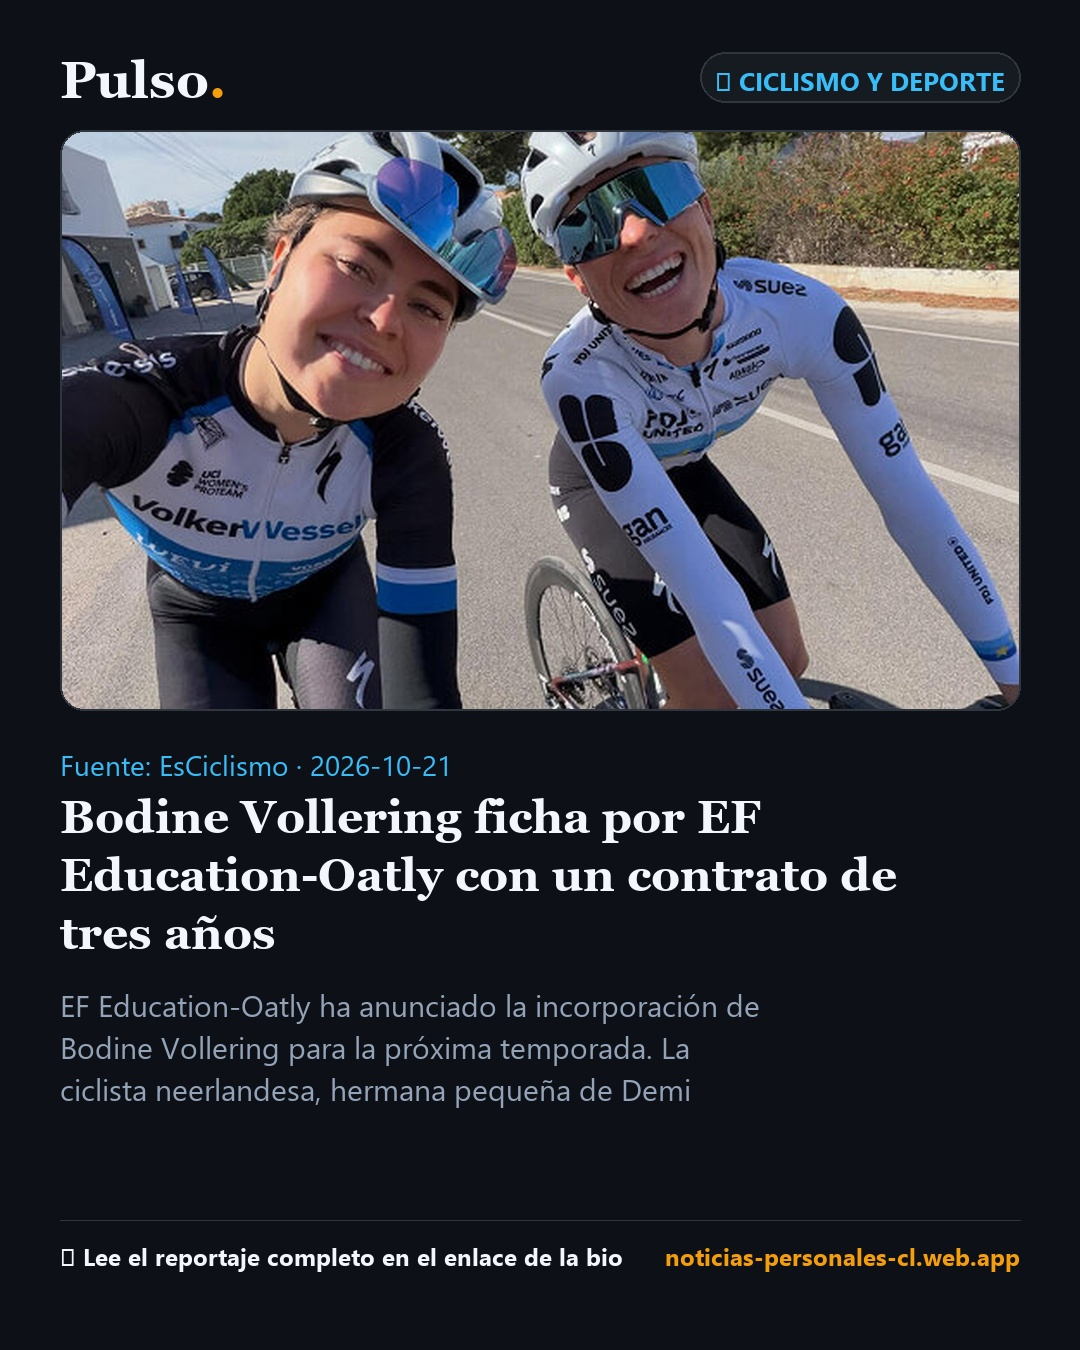
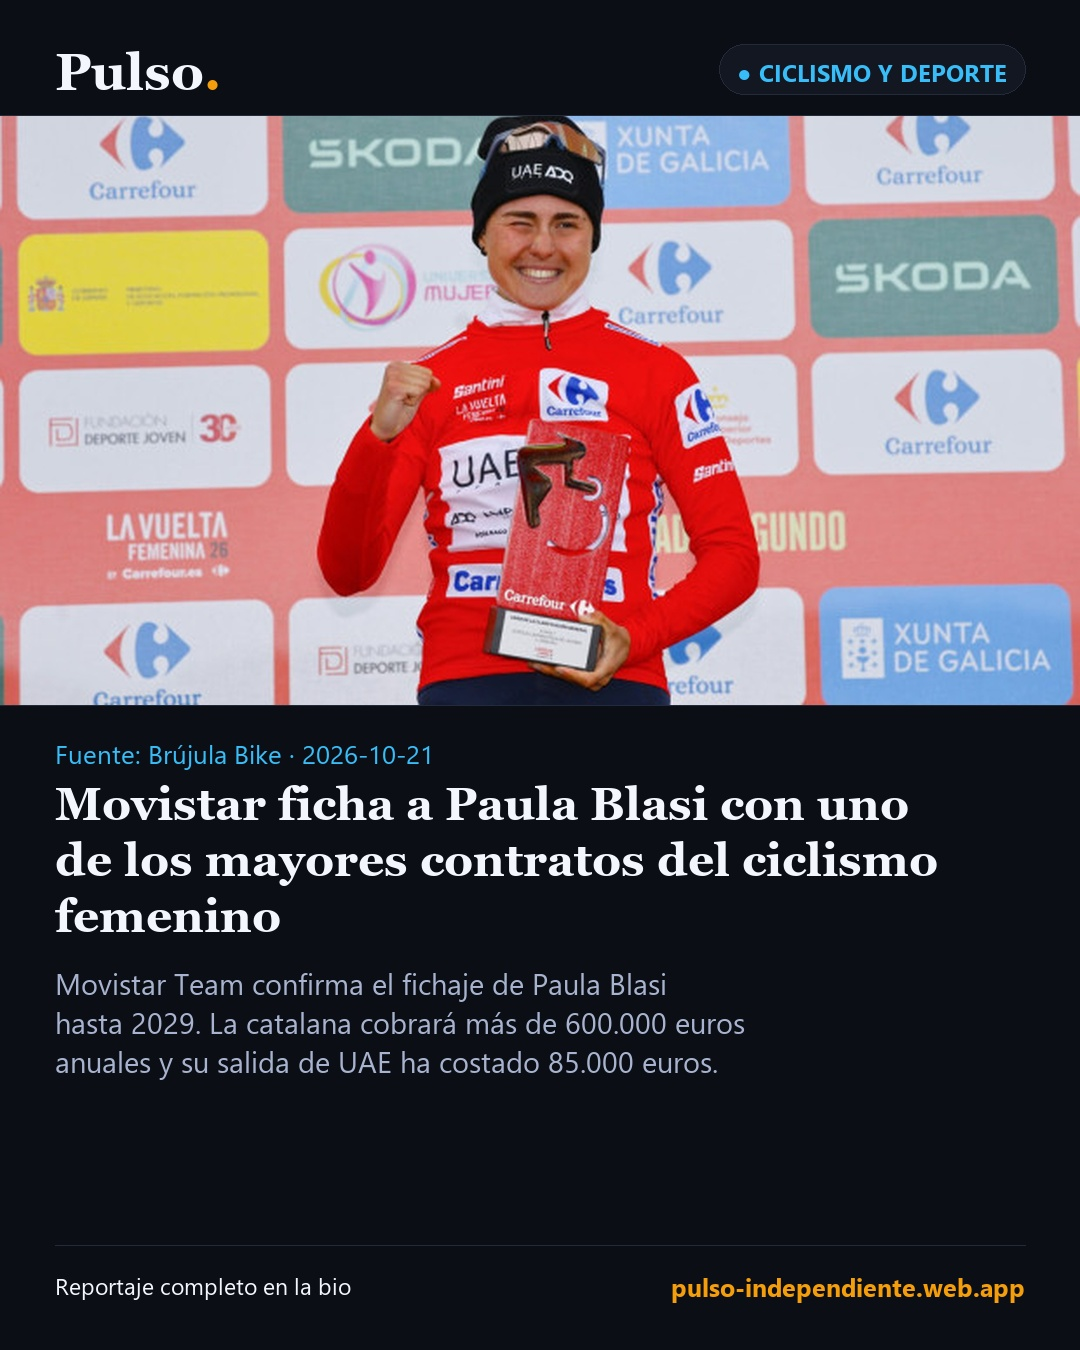
fix(instagram): full-bleed horizontal image, clean footer separation, and fixed summary clipping

diff --git a/scripts/generate_instagram_post.py b/scripts/generate_instagram_post.py
@@ -34,56 +34,57 @@ def create_instagram_card(article, output_path="public/instagram_posts/preview.j
     WIDTH = 1080
     HEIGHT = 1350
     
-    # Colores base
-    BG_COLOR = (13, 17, 23)        # #0d1117 (Dark navy/charcoal)
-    CARD_BG = (22, 27, 34)         # #161b22
+    # Paleta de colores editorial Pulso
+    BG_COLOR = (11, 14, 20)        # #0b0e14 pizarra oscura
+    CARD_BG = (18, 23, 34)         # #121722
     ACCENT_CYAN = (56, 189, 248)   # #38bdf8
     ACCENT_GOLD = (245, 158, 11)   # #f59e0b
-    TEXT_PRIMARY = (243, 246, 252)
-    TEXT_MUTED = (148, 163, 184)
-    BORDER_COLOR = (48, 54, 61)
+    TEXT_PRIMARY = (243, 246, 252) # #f3f6fc
+    TEXT_MUTED = (168, 179, 207)   # #a8b3cf
+    BORDER_COLOR = (35, 43, 58)    # borde sutil
     
     img = Image.new("RGB", (WIDTH, HEIGHT), BG_COLOR)
     draw = ImageDraw.Draw(img)
     
-    # 1. Cabecera Superior: Logo "Pulso." y Categoría
+    # Tipografías limpias y cross-platform
     font_logo = get_font("georgiab.ttf", 52, "arialbd.ttf")
-    font_category = get_font("segoeuib.ttf", 26, "arialbd.ttf")
-    font_source = get_font("segoeui.ttf", 28, "arial.ttf")
+    font_category = get_font("segoeuib.ttf", 24, "arialbd.ttf")
+    font_source = get_font("segoeui.ttf", 26, "arial.ttf")
     font_title = get_font("georgiab.ttf", 46, "arialbd.ttf")
-    font_summary = get_font("segoeui.ttf", 30, "arial.ttf")
-    font_footer = get_font("segoeuib.ttf", 24, "arialbd.ttf")
+    font_summary = get_font("segoeui.ttf", 29, "arial.ttf")
+    font_footer_left = get_font("segoeui.ttf", 23, "arial.ttf")
+    font_footer_url = get_font("segoeuib.ttf", 25, "arialbd.ttf")
     
-    # Logo
-    draw.text((60, 50), "Pulso", fill=TEXT_PRIMARY, font=font_logo)
-    # Punto dorado
-    logo_width = draw.textlength("Pulso", font=font_logo)
-    draw.text((60 + logo_width, 50), ".", fill=ACCENT_GOLD, font=font_logo)
+    # 1. Cabecera Superior (0 a 115 px): Logo "Pulso." y Categoría
+    draw.text((55, 42), "Pulso", fill=TEXT_PRIMARY, font=font_logo)
+    logo_w = draw.textlength("Pulso", font=font_logo)
+    draw.text((55 + logo_w, 42), ".", fill=ACCENT_GOLD, font=font_logo)
     
-    # Badge de Categoría
+    # Badge de Categoría (usando bullet ● para evitar emojis rotos [] en Linux)
     category_text = article.get("category", "Actualidad").upper()
     is_cycling = "ciclismo" in category_text.lower()
-    cat_badge = f"🚴 {category_text}" if is_cycling else f"🔥 {category_text}"
+    cat_badge = f"● {category_text}"
     cat_color = ACCENT_CYAN if is_cycling else ACCENT_GOLD
     
-    cat_width = draw.textlength(cat_badge, font=font_category)
-    badge_x = WIDTH - 60 - cat_width - 30
-    draw.rounded_rectangle([badge_x, 52, WIDTH - 60, 102], radius=25, fill=CARD_BG, outline=BORDER_COLOR, width=2)
-    draw.text((badge_x + 15, 62), cat_badge, fill=cat_color, font=font_category)
+    cat_w = draw.textlength(cat_badge, font=font_category)
+    badge_pad_x = 18
+    badge_box_w = cat_w + (badge_pad_x * 2)
+    badge_x = WIDTH - 55 - badge_box_w
+    draw.rounded_rectangle([badge_x, 44, WIDTH - 55, 94], radius=25, fill=CARD_BG, outline=BORDER_COLOR, width=1)
+    draw.text((badge_x + badge_pad_x, 56), cat_badge, fill=cat_color, font=font_category)
     
-    # 2. Imagen Principal de la Noticia (Aspect ratio 16:9 o 4:3 con bordes redondeados)
+    # 2. Imagen Principal FULL-BLEED HORIZONTAL (Ocupa el 100% del ancho, de 0 a 1080 px)
     image_url = article.get("image")
-    img_y_start = 130
-    img_h = 580
-    img_w = WIDTH - 120
+    img_y_start = 115
+    img_h = 590
+    img_w = WIDTH  # Ancho total sin marcos negros a los lados
     
     loaded_photo = None
     if image_url:
         try:
-            req = urllib.request.Request(image_url, headers={"User-Agent": "Mozilla/5.0"})
-            with urllib.request.urlopen(req, timeout=8) as r:
+            req = urllib.request.Request(image_url, headers={"User-Agent": "Mozilla/5.0 (Windows NT 10.0; Win64; x64)"})
+            with urllib.request.urlopen(req, timeout=10) as r:
                 raw_img = Image.open(BytesIO(r.read())).convert("RGB")
-                # Crop and resize to fill img_w x img_h
                 w, h = raw_img.size
                 target_ratio = img_w / img_h
                 current_ratio = w / h
@@ -97,51 +98,60 @@ def create_instagram_card(article, output_path="public/instagram_posts/preview.j
                     raw_img = raw_img.crop((0, offset, w, offset + new_h))
                 loaded_photo = raw_img.resize((img_w, img_h), Image.Resampling.LANCZOS)
         except Exception as e:
-            print("Error cargando foto para Instagram:", e)
+            print("[IMAGEN] Error descargando foto original:", e)
             
     if loaded_photo:
-        mask = Image.new("L", (img_w, img_h), 0)
-        mask_draw = ImageDraw.Draw(mask)
-        mask_draw.rounded_rectangle([0, 0, img_w, img_h], radius=24, fill=255)
-        img.paste(loaded_photo, (60, img_y_start), mask)
-        draw.rounded_rectangle([60, img_y_start, 60 + img_w, img_y_start + img_h], radius=24, outline=BORDER_COLOR, width=2)
+        img.paste(loaded_photo, (0, img_y_start))
+        # Línea divisoria sutil arriba y abajo de la foto
+        draw.line([(0, img_y_start), (WIDTH, img_y_start)], fill=BORDER_COLOR, width=1)
+        draw.line([(0, img_y_start + img_h), (WIDTH, img_y_start + img_h)], fill=BORDER_COLOR, width=1)
     else:
-        draw.rounded_rectangle([60, img_y_start, 60 + img_w, img_y_start + img_h], radius=24, fill=CARD_BG, outline=BORDER_COLOR, width=2)
-        draw.text((WIDTH // 2 - 140, img_y_start + 260), "COBERTURA PERIODÍSTICA", fill=TEXT_MUTED, font=font_category)
+        # Fallback si la imagen no carga
+        draw.rectangle([0, img_y_start, WIDTH, img_y_start + img_h], fill=CARD_BG)
+        draw.text((WIDTH // 2 - 140, img_y_start + 270), "COBERTURA PERIODÍSTICA", fill=TEXT_MUTED, font=font_category)
+        draw.line([(0, img_y_start), (WIDTH, img_y_start)], fill=BORDER_COLOR, width=1)
+        draw.line([(0, img_y_start + img_h), (WIDTH, img_y_start + img_h)], fill=BORDER_COLOR, width=1)
 
     # 3. Metadatos de la Fuente
-    meta_y = img_y_start + img_h + 35
+    meta_y = img_y_start + img_h + 30
     src_text = f"Fuente: {article.get('sourceName', 'Prensa Independiente')} · {article.get('publishedAt', '')[:10]}"
-    draw.text((60, meta_y), src_text, fill=ACCENT_CYAN, font=font_source)
+    draw.text((55, meta_y), src_text, fill=ACCENT_CYAN, font=font_source)
     
-    # 4. Titular Principal (Wrap automático)
-    title_y = meta_y + 45
+    # 4. Titular Principal
+    title_y = meta_y + 42
     raw_title = article.get("title", "")
-    wrapped_title = textwrap.fill(raw_title, width=38)
+    wrapped_title = textwrap.fill(raw_title, width=37)
     lines_title = wrapped_title.split("\n")[:4]
     
     for line in lines_title:
-        draw.text((60, title_y), line, fill=TEXT_PRIMARY, font=font_title)
-        title_y += 58
+        draw.text((55, title_y), line, fill=TEXT_PRIMARY, font=font_title)
+        title_y += 56
         
-    # 5. Bajada / Resumen
-    summary_y = title_y + 20
-    raw_summary = article.get("summary", "")
-    wrapped_summary = textwrap.fill(raw_summary, width=54)
+    # 5. Bajada / Resumen (Garantizando texto completo sin letras cortadas)
+    summary_y = title_y + 18
+    raw_summary = (article.get("summary") or "").strip()
+    if raw_summary:
+        raw_summary = raw_summary[0].upper() + raw_summary[1:]
+    wrapped_summary = textwrap.fill(raw_summary, width=53)
     lines_summary = wrapped_summary.split("\n")[:3]
     
     for line in lines_summary:
-        draw.text((60, summary_y), line, fill=TEXT_MUTED, font=font_summary)
-        summary_y += 42
+        draw.text((55, summary_y), line, fill=TEXT_MUTED, font=font_summary)
+        summary_y += 39
         
-    # 6. Pie de Publicación (CTA)
-    footer_box_y = HEIGHT - 110
-    draw.line([(60, footer_box_y - 20), (WIDTH - 60, footer_box_y - 20)], fill=BORDER_COLOR, width=1)
+    # 6. Pie de Publicación (CTA) - Diseño amplio con separación garantizada
+    footer_y = HEIGHT - 80
+    draw.line([(55, footer_y - 25), (WIDTH - 55, footer_y - 25)], fill=BORDER_COLOR, width=1)
     
-    cta_text = "🔗 Lee el reportaje completo en el enlace de la bio"
+    # Texto de la izquierda (sin emojis para compatibilidad total)
+    cta_text = "Reportaje completo en la bio"
+    draw.text((55, footer_y), cta_text, fill=TEXT_PRIMARY, font=font_footer_left)
+    
+    # Dominio a la derecha (en píldora o texto ámbar asegurando margen)
     url_text = "pulso-independiente.web.app"
-    draw.text((60, footer_box_y), cta_text, fill=TEXT_PRIMARY, font=font_footer)
-    draw.text((WIDTH - 60 - draw.textlength(url_text, font=font_footer), footer_box_y), url_text, fill=ACCENT_GOLD, font=font_footer)
+    url_w = draw.textlength(url_text, font=font_footer_url)
+    url_x = WIDTH - 55 - url_w
+    draw.text((url_x, footer_y), url_text, fill=ACCENT_GOLD, font=font_footer_url)
     
     img.save(output_path, "JPEG", quality=95)
     print(f"[OK] Tarjeta Instagram generada exitosamente en: {output_path}")
@@ -151,10 +161,10 @@ if __name__ == "__main__":
     with open("public/data/initial-feeds.json", encoding="utf-8") as f:
         data = json.load(f)
     
-    # Buscar el mejor artículo con foto de Ciclismo o Alto Impacto
+    # Buscar el artículo de Pogacar o Ciclismo para probar el resultado
     sample = None
     for a in data["articles"]:
-        if a.get("image") and a.get("category") == "Ciclismo y Deporte":
+        if "Pogacar" in a.get("title", "") or a.get("category") == "Ciclismo y Deporte":
             sample = a
             break
             
@@ -163,6 +173,6 @@ if __name__ == "__main__":
             if a.get("image"):
                 sample = a
                 break
-                
+
     if sample:
-        create_instagram_card(sample)
+        create_instagram_card(sample, "public/instagram_posts/preview.jpg")

diff --git a/scripts/fetch_feeds.py b/scripts/fetch_feeds.py
@@ -710,8 +710,14 @@ def fetch_all():
 
                 raw_desc = entry["description"] or ""
                 summary = clean_html(raw_desc)
-                if summary.lower().startswith(title.lower()[:30]):
+                # Solo eliminar el titulo si el resumen comienza exactamente con el titulo completo
+                if summary.lower().startswith(title.lower()):
                     summary = summary[len(title):].strip(" .-–—")
+
+                # Asegurar mayuscula inicial limpia
+                if summary:
+                    summary = summary[0].upper() + summary[1:]
+
                 if len(summary) > 340:
                     summary = summary[:337].rsplit(" ", 1)[0] + "..."
                 if len(summary) < 25:
